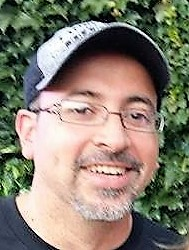
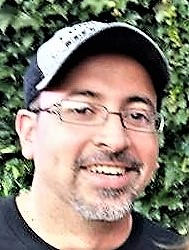
styling intro section; adjusted profile img clarity; added box shadow and styling to intro section with media queries for small or large screens; looking good so far

diff --git a/style.css b/style.css
@@ -21,6 +21,9 @@
     --fs-h2: 2.25rem;
     --fs-h3: 1.25rem;
     --fs-body: 1rem;
+    
+    --bs: 0.25em 0.25em 0.75em rgba(0,0,0,.25),
+          0.125em 0.125em 0.25em rgba(0,0,0,.15);
 }
 
 @media (min-width: 800px) {
@@ -43,6 +46,10 @@ body {
     line-height: 1.6;
 }
 
+section {
+    padding: 5em 2em;
+}
+
 img {
     display: block;
     max-width: 100%;
@@ -55,7 +62,7 @@ strong { font-weight: var(--fw-bold) }
 h1,
 h2,
 h3 {
-    line-height: 1.1;
+    line-height: 1;
     margin: 0;
 }
 
@@ -84,5 +91,52 @@ h3 { font-size: var(--fs-h3) }
 .section__subtitle--intro,
 .section__subtitle--about {
     background: var(--clr-accent);
+    padding: .25em 1em;
     font-family: var(--ff-secondary);
+    margin-bottom: 1em;
+}
+
+
+/* header */
+
+nav { display: none; }
+
+/*  Intro section  */
+
+.intro {
+    position: relative;
+}
+
+.intro__img {
+    box-shadow: var(--bs);
+}
+
+@media (min-width: 600px) {
+    .intro {
+        display: grid;
+        width: min-content;
+        margin: 0 auto;
+        grid-column-gap: 1em;
+        grid-template-areas: 
+            "img title"
+            "img subtitle";
+        grid-template-columns: min-content max-content;
+    }
+    
+    .intro__img {
+        grid-area: img;
+        min-width: 250px;
+        position: relative;
+        z-index: 2;
+    }    
+    
+    .section__subtitle--intro {
+        align-self: start;
+        grid-column: -1 / 1;
+        grid-row: 2;
+        text-align: right;
+        position: relative;
+        left: -1.5em;
+        width: calc(100% + 1.5em);
+    }
 }

diff --git a/index.html b/index.html
@@ -33,8 +33,8 @@
             <h1 class="section__title section__title--intro">
                 Hi, I'm <strong>Sachin Mahajan</strong>
             </h1>
-            <p class="section__subtitle section__subtitle--intro">full-stack dev</p>
-            <img src="./img/sachinm78-profile.jpg" alt="a profile picture of Sachin Mahajan smiling in front of ivy wall">
+            <p class="section__subtitle section__subtitle--intro">FULL-STACK DEV</p>
+            <img class="intro__img" src="./img/sachinm78-profile.jpg" alt="a profile picture of Sachin Mahajan smiling in front of ivy wall">
         </section>
 
         <!-- My projects -->
